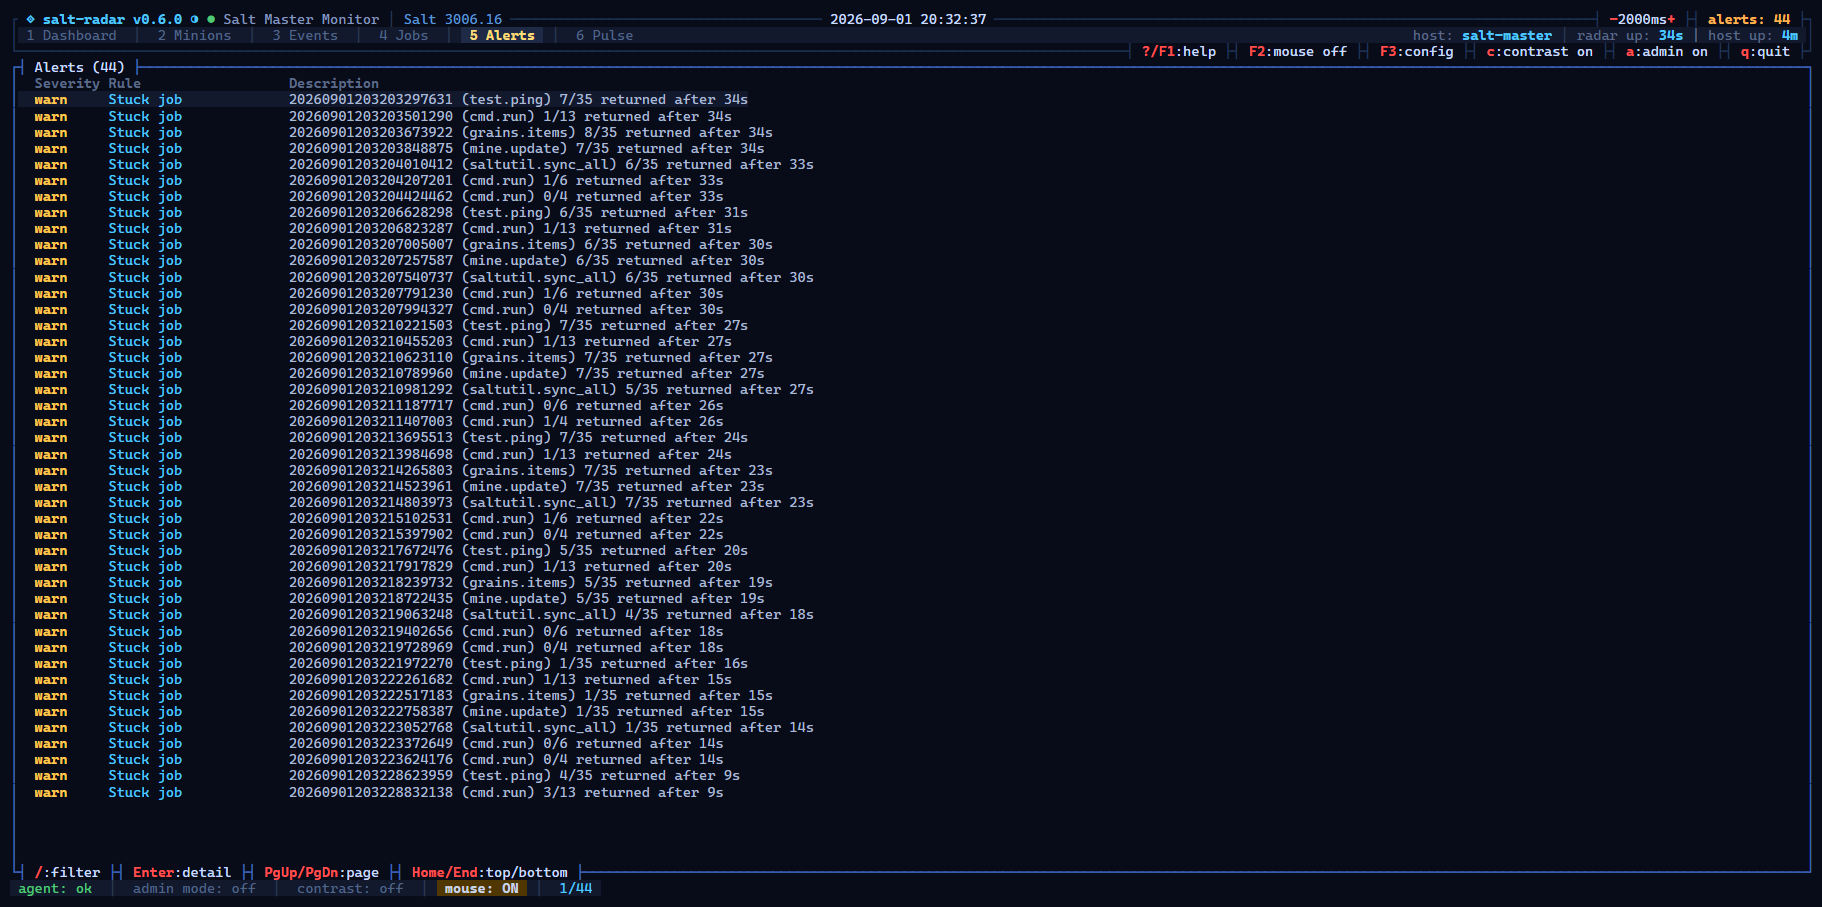
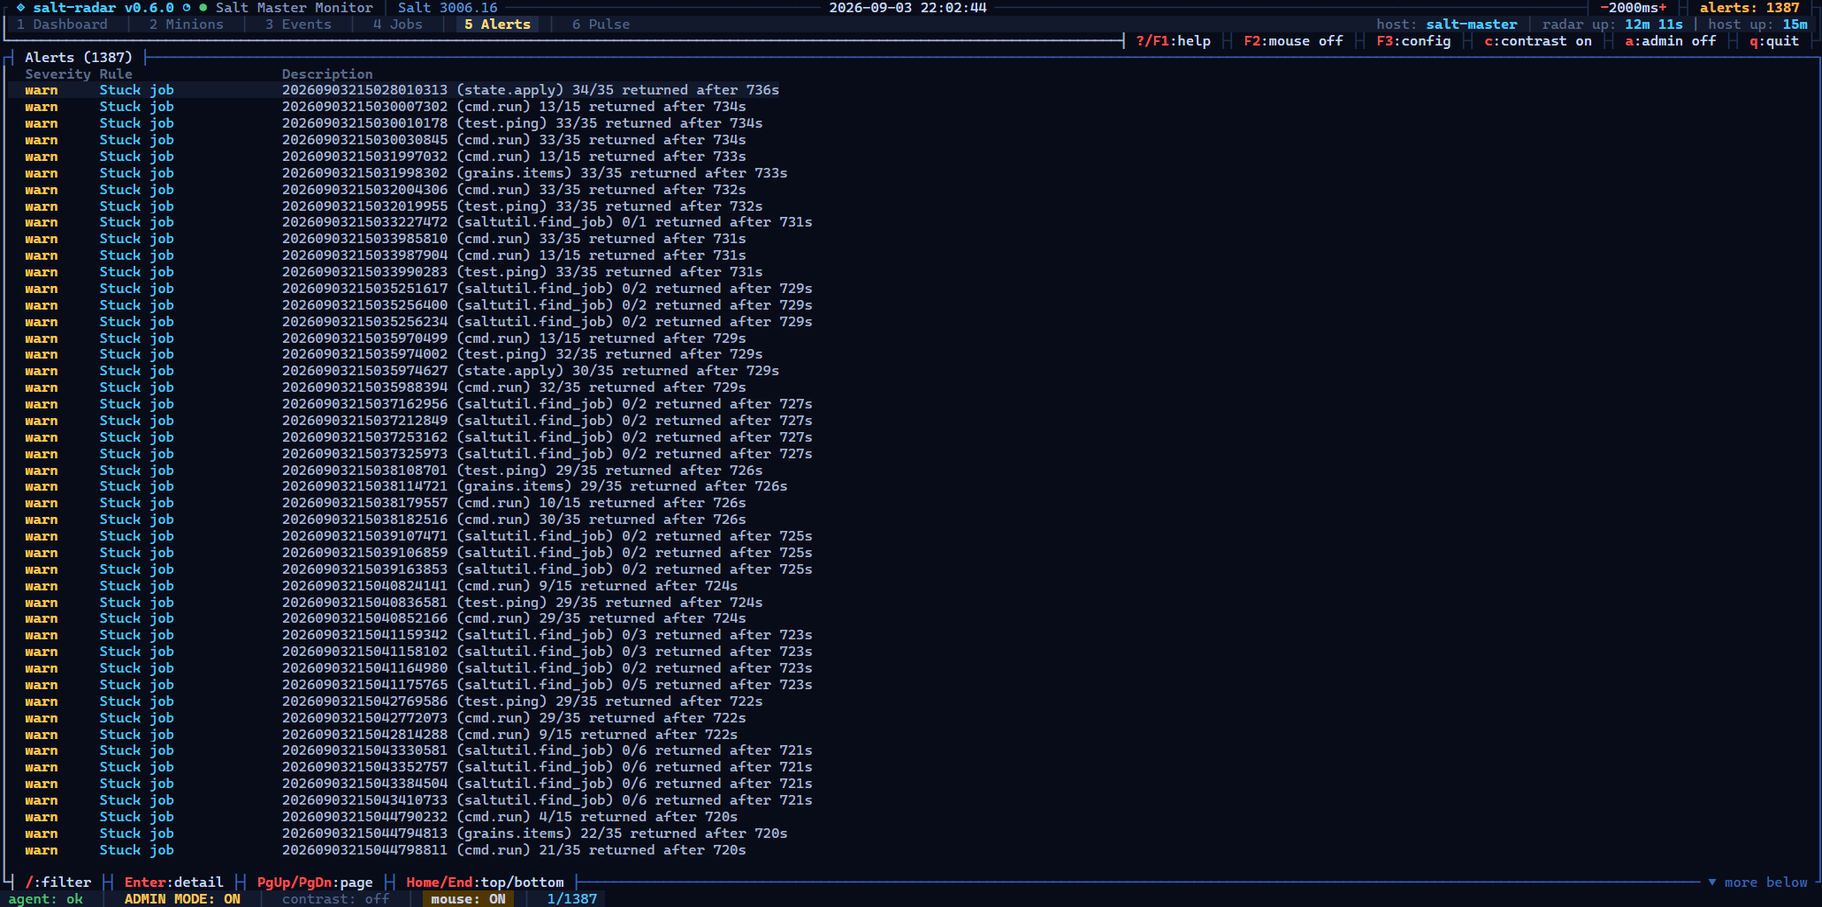
chore: release v0.6.0
Fold v0.6.0-rc1 through rc25 into the final release: bump version,
finalize the changelog entry, and refresh all six tab screenshots
against a live 35-minion k8s test fleet under real job/event traffic.

Claude-Session: https://claude.ai/code/session_015ivASujpgc4XGZ2srTpURc

Changed region(s): [[0.0, 0.0, 1.0, 1.0]]

diff --git a/CHANGELOG.md b/CHANGELOG.md
@@ -7,7 +7,9 @@ and this project adheres to [Semantic Versioning](https://semver.org/spec/v2.0.0
 
 ## [Unreleased]
 
-This will fold in `v0.6.0-rc1` through `v0.6.0-rc25` once released. Where a
+## [0.6.0] - 2026-09-03
+
+This release folds in `v0.6.0-rc1` through `v0.6.0-rc25`. Where a
 later RC changed or fixed something an earlier RC in this same range
 introduced, only the final end-state behavior is described below — the
 intermediate iterations aren't (see the individual RC tags for that
